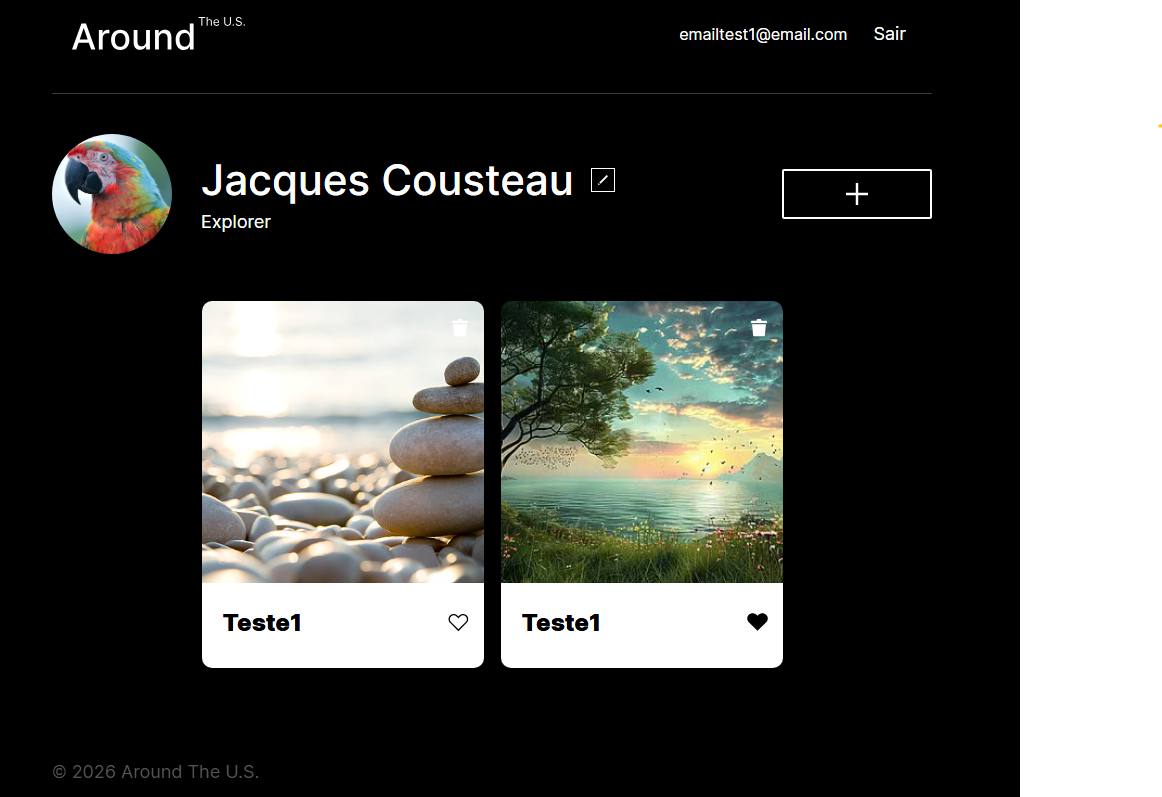
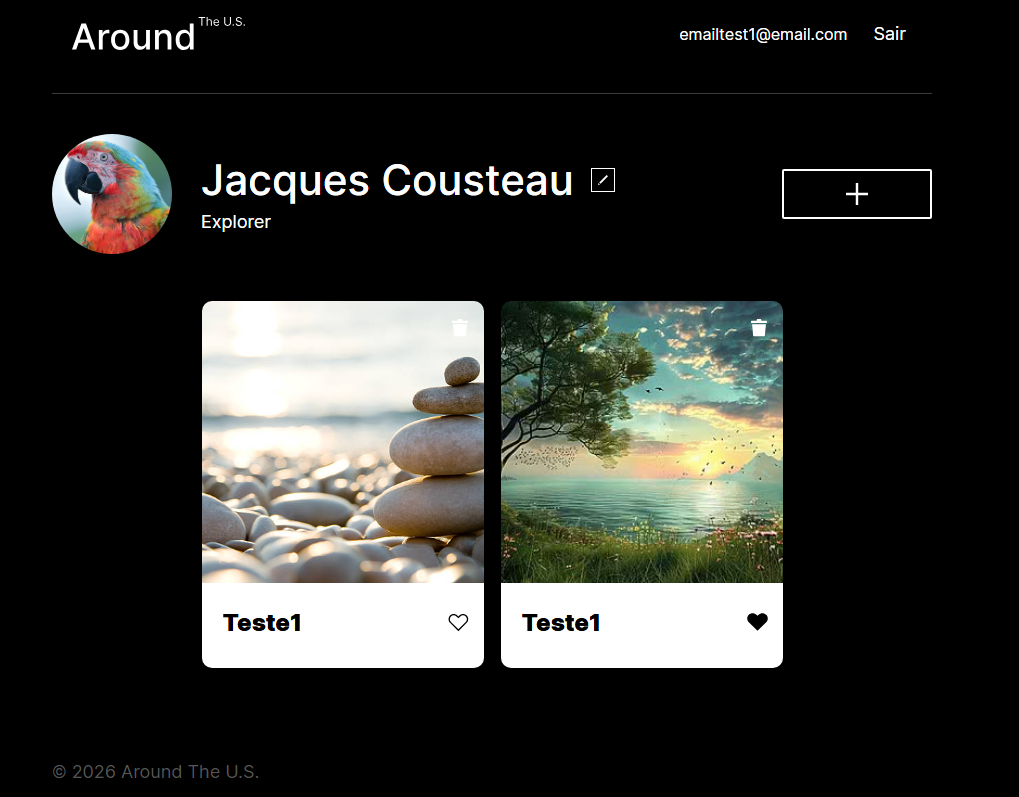
feat(section skills): created responsive structure

diff --git a/src/sections/Skills/Skills.module.css b/src/sections/Skills/Skills.module.css
@@ -11,6 +11,8 @@
 
   margin: 0 auto;
 
+  text-align: center;
+
 }
 
 
@@ -37,7 +39,6 @@
   gap: 32px;
 
 }
-
 
 .list {
 
